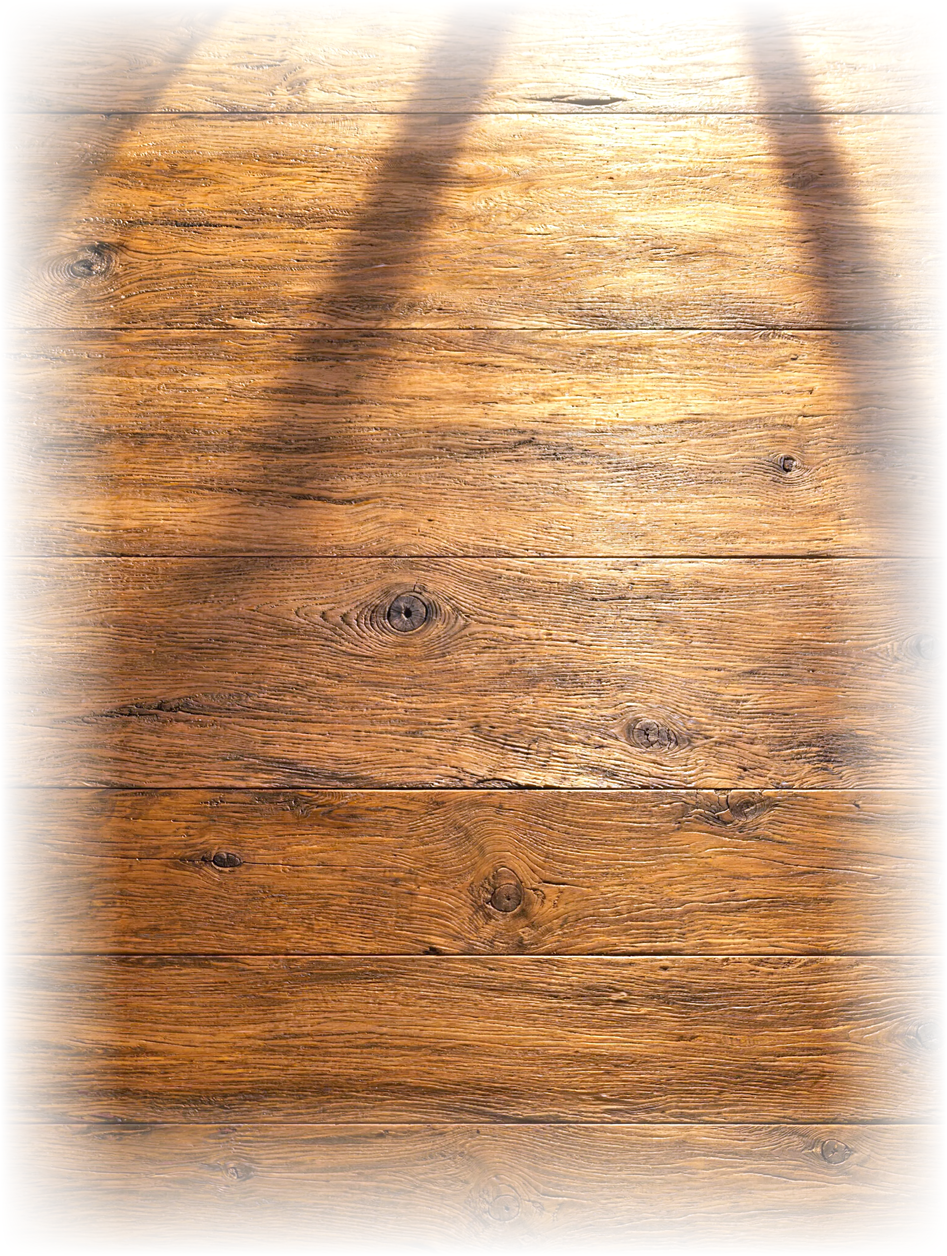
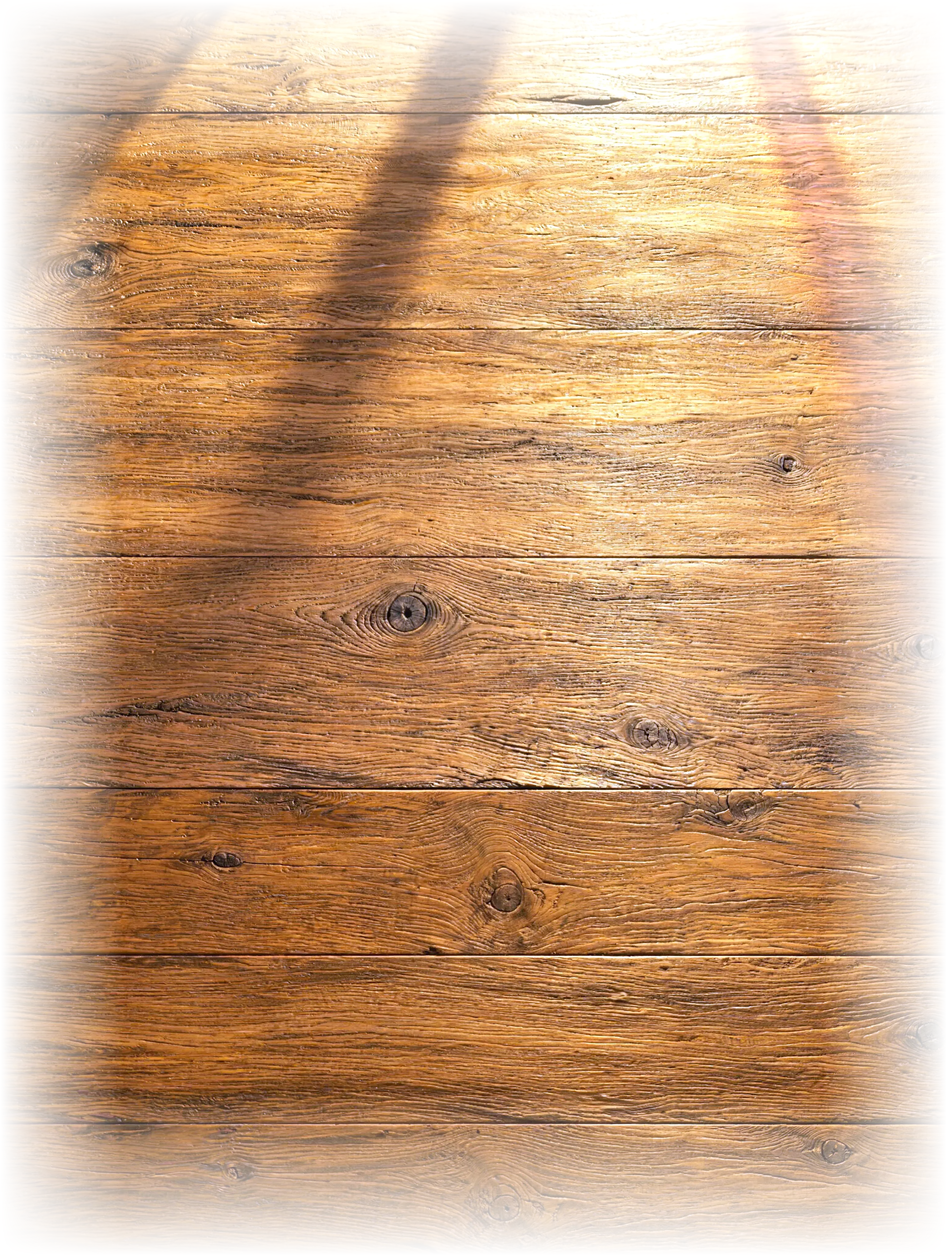
Den hoejre skyggestribe paa bordet fjernet (Lukas: der er ikke noget til at kaste den)
Den venstre stribe er skyggen af vinduets midterstolpe og bliver staaende. Den hoejre laa baade i aftenfotoet og
i den top-down bordplade, saa begge er rettet.

tools/skyggevaek.py loefter baandet tilbage til traeets egen lysstyrke i stedet for at generere billederne igen,
saa den komposition Lukas har godkendt er uroert. En skygge er multiplikativ - mindre lys paa det samme trae - saa
den divideres ud: for hver raekke aflaeses lysniveauet lige uden for baandet i begge sider, der interpoleres lige
over, og pixlerne skaleres op til det. Bloed kant, saa reparationen ikke ses.

Maalt i baandet, lysstyrke i forhold til den omgivende belysning: 0,74-0,83 foer, 0,85-1,04 efter.

Changed region(s): [[0.777, 0.0312, 0.9634, 0.4062]]

diff --git a/tools/skyggevaek.py b/tools/skyggevaek.py
@@ -1,0 +1,88 @@
+#!/usr/bin/env python3
+"""Take one shadow band off the table, in the photo and in the top-down table top.
+
+Lukas: the left band is the shadow of the window's centre post and belongs there; the right one has nothing
+to cast it. Rather than generating the pictures again and losing the composition he already approved, the band
+is lifted back to the brightness of the wood beside it.
+
+A shadow is multiplicative - less light falling on the same wood - so dividing it out restores the grain
+underneath instead of washing it flat. For each row: read the light level just outside the band on both sides,
+interpolate straight across, and scale the pixels up to meet it. A soft edge keeps the repair invisible.
+
+Run: python3 tools/skyggevaek.py        (writes the files in public/baggrund in place)
+"""
+from pathlib import Path
+
+import cv2
+import numpy as np
+
+ROOT = Path(__file__).resolve().parent.parent
+
+# The band to remove, as fractions of the image: its centre x at the top and bottom of the span, its width,
+# and the rows it runs through. Measured off the brightness profile of each picture.
+JOBS = [
+    dict(path="public/baggrund/aften.jpg", x_top=0.730, y_top=0.48, x_bot=0.865, y_bot=0.68,
+         width=0.095, y_from=0.36, y_to=0.80),
+    dict(path="public/baggrund/bord.webp", x_top=0.807, y_top=0.02, x_bot=0.987, y_bot=0.45,
+         width=0.115, y_from=0.0, y_to=0.70),
+]
+
+
+def remove(img: np.ndarray, j: dict) -> np.ndarray:
+    H, W = img.shape[:2]
+    out = img.astype(np.float32).copy()
+    # the light falling on the table, without the grain: blur hard enough that only the lighting is left
+    light = cv2.cvtColor(cv2.GaussianBlur(img, (0, 0), max(6.0, W / 90)), cv2.COLOR_BGR2LAB)[..., 0].astype(np.float32)
+    half = j["width"] * W / 2
+    y0, y1 = int(j["y_from"] * H), int(j["y_to"] * H)
+    gain = np.ones((H, W), np.float32)
+
+    for y in range(y0, y1):
+        t = (y / H - j["y_top"]) / (j["y_bot"] - j["y_top"])
+        cx = (j["x_top"] + (j["x_bot"] - j["x_top"]) * t) * W
+        a, b = cx - half, cx + half
+        # sample the lit wood a little way outside each side of the band; fall back to the other side at the edge
+        la = light[y, max(0, int(a - half * 0.7)):max(1, int(a - half * 0.15))]
+        lb = light[y, min(W - 1, int(b + half * 0.15)):min(W, int(b + half * 0.7))]
+        left = float(np.median(la)) if la.size else None
+        right = float(np.median(lb)) if lb.size else None
+        if left is None and right is None:
+            continue
+        if left is None: left = right
+        if right is None: right = left
+
+        xs = np.arange(max(0, int(a - half)), min(W, int(b + half)))
+        if xs.size == 0:
+            continue
+        # what the light would be without the band: straight across from one side to the other
+        want = left + (right - left) * np.clip((xs - a) / max(b - a, 1.0), 0, 1)
+        have = np.maximum(light[y, xs], 1.0)
+        g = np.clip(want / have, 1.0, 1.8)
+        # only inside the band, and fading out over its edges so the repair has no seam
+        d = np.abs(xs - cx) / half
+        fade = np.clip(1.0 - (d - 0.85) / 0.55, 0.0, 1.0)   # full across the band, easing off past its edge
+        gain[y, xs] = 1.0 + (g - 1.0) * fade
+
+    gain = cv2.GaussianBlur(gain, (0, 0), max(4.0, W / 260))
+    return np.clip(out * gain[..., None], 0, 255).astype(np.uint8)
+
+
+def main():
+    for j in JOBS:
+        p = ROOT / j["path"]
+        raw = cv2.imread(str(p), cv2.IMREAD_UNCHANGED)
+        if raw is None:
+            raise SystemExit(f"kan ikke laese {p}")
+        alpha = raw[..., 3:] if raw.ndim == 3 and raw.shape[2] == 4 else None
+        bgr = raw[..., :3]
+        fixed = remove(bgr, j)
+        if alpha is not None:
+            fixed = np.dstack([fixed, alpha])
+        if p.suffix == ".webp":
+            cv2.imwrite(str(p), fixed, [cv2.IMWRITE_WEBP_QUALITY, 72])
+        else:
+            cv2.imwrite(str(p), fixed, [cv2.IMWRITE_JPEG_QUALITY, 92])
+        print(f"{j['path']}: hoejre skyggebaand fjernet")
+
+
+main()
